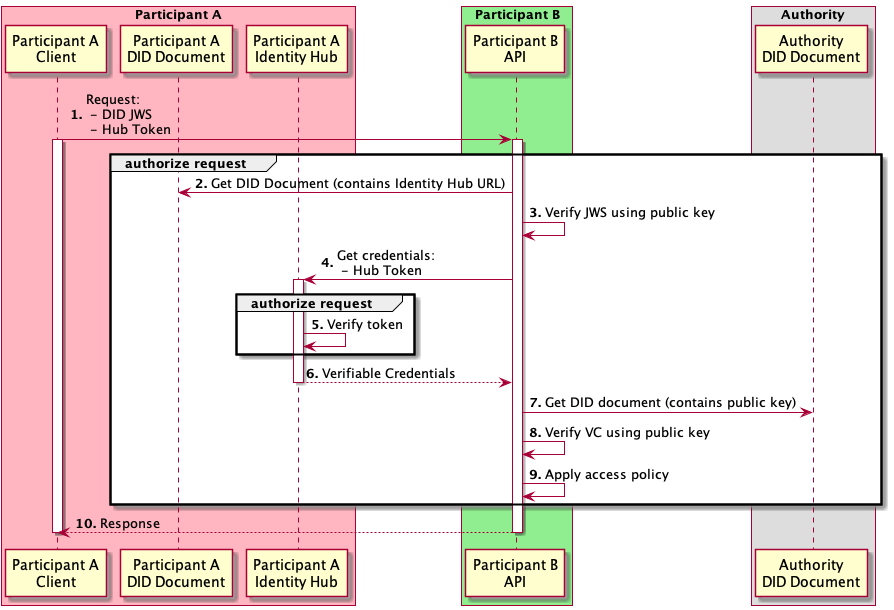
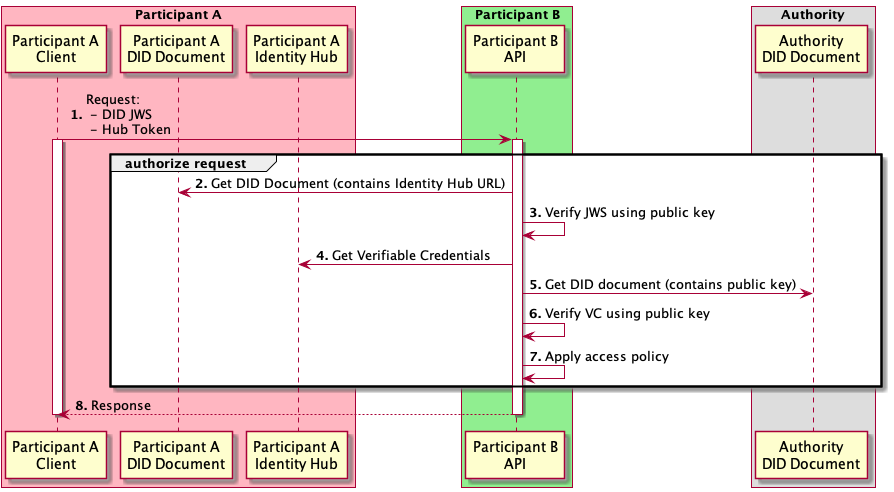
Remove IH authentication

diff --git a/docs/developer/decision-records/2022-06-16-distributed-authorization/README.md b/docs/developer/decision-records/2022-06-16-distributed-authorization/README.md
@@ -27,12 +27,10 @@ A DID JWS cannot be used by _Participant B_ to authenticate itself to _Participa
 1. The Client for _Participant A_ (which could be EDC, or any other application) sends a request to _Participant B's_ API. The client needs access to _Participant A's_ Private Key to sign a JWS. It also sends a time-limited bearer token granting access to its Identity Hub.
 2. _Participant B_ retrieves the DID Document based on the DID URI contained in the JWS.
 3. _Participant B_ authenticates the request by validating the JWS signature against the public key in the DID Document.
-4. _Participant B_ finds Participant A's Identity Hub URL in the DID Document. It authorizes the request by obtaining VCs for _Participant A_ at its Identity Hub, 
-   using the bearer token sent initially by _Participant A._
-5. _Participant A's_ Identity Hub verifies the bearer token validity.
-6. _Participant A's_ Identity Hub returns Participant A's Verifiable Presentation containing Verifiable Credentials.
-7. _Participant B_ retrieves the DID Document of the Participant A's Verifiable Credentials issuer.
-8. _Participant B_ validates the VC signature against the public key in the DID Document.
-9. _Participant B_ applies its access policy for the given service. This applies rules specific to a given service. For example, the caller must be a dataspace participant (i.e. have a valid Verifiable Credential signed by the Dataspace Authority, that establishes its dataspace membership).
-10. _Participant B_ returns the service response if the request was successfully authorized, otherwise, an error response. Depending on the flow, the response can be synchronously or asynchronously returned.
+4. _Participant B_ finds Participant A's Identity Hub URL in the DID Document and retrieves Verifiable Presentation containing Verifiable Credentials from 
+   _Participant's A_ Identity Hub.
+5. _Participant B_ retrieves the DID Document of the Participant A's Verifiable Credentials issuer.
+6. _Participant B_ validates the VC signature against the public key in the DID Document.
+7. _Participant B_ applies its access policy for the given service. This applies rules specific to a given service. For example, the caller must be a dataspace participant (i.e. have a valid Verifiable Credential signed by the Dataspace Authority, that establishes its dataspace membership).
+8. _Participant B_ returns the service response if the request was successfully authorized, otherwise, an error response. Depending on the flow, the response can be synchronously or asynchronously returned.
 
